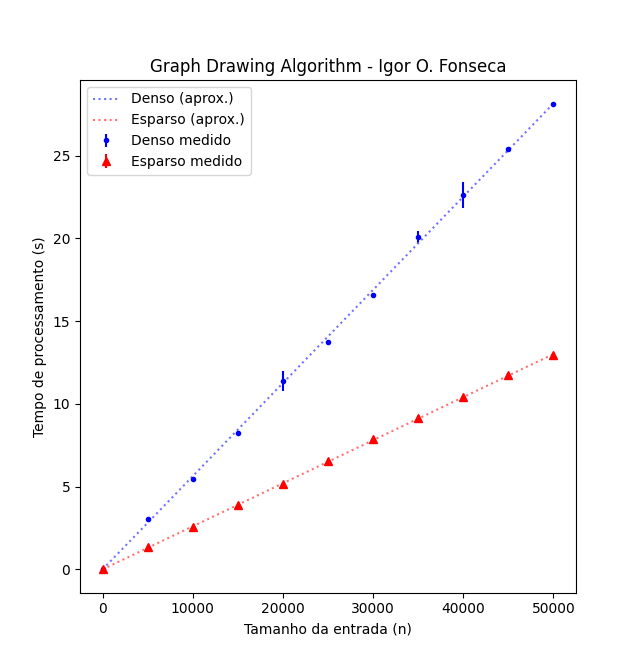
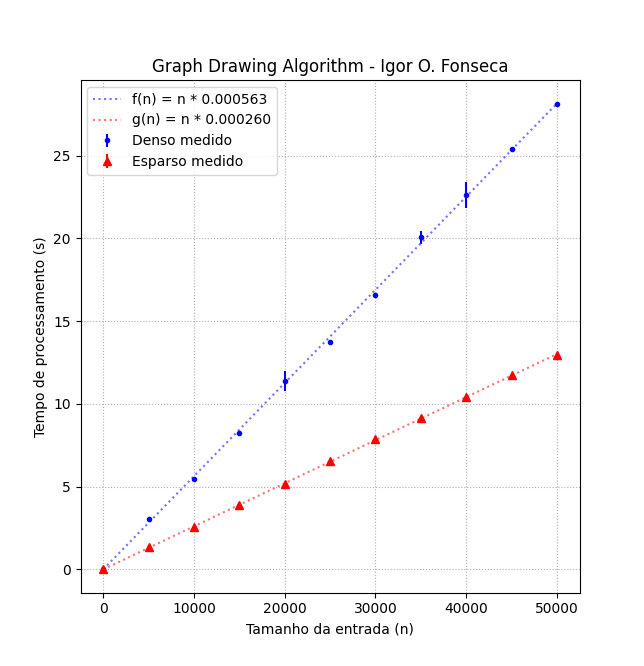
Atualizando legenda do grafico

diff --git a/plot_graph.py b/plot_graph.py
@@ -33,8 +33,8 @@ mean_dense = dense_matrix.mean(0)
 std_dense = dense_matrix.std(0)
 
 # Print array
-'''np.set_printoptions(formatter={'float': lambda x: "{0:0.2f}".format(x)})
-print(n_sizes)'''
+#np.set_printoptions(formatter={'float': lambda x: "{0:0.5f}".format(x)})
+#print(n_sizes)
 
 # Plot dense
 plt.errorbar(n_sizes, mean_dense, std_dense, color="blue", label='Denso medido', linestyle='', fmt=".")
@@ -44,7 +44,8 @@ range_multiplier = 1
 parametros, pcov = opt.curve_fit(funcao_linear, xdata=n_sizes, ydata=mean_dense)
 tamanhos_aproximados = range(n_sizes[-1] * range_multiplier)
 aproximados = [funcao_linear(x, *parametros) for x in tamanhos_aproximados]
-plt.plot(tamanhos_aproximados, aproximados, label="Denso (aprox.)", color="#7373ff", linestyle="dotted")
+label_dense = "f(n) = n * {:f}".format(parametros[0])
+plt.plot(tamanhos_aproximados, aproximados, label=label_dense, color="#7373ff", linestyle="dotted")
 
 # Plot sparse
 plt.errorbar(n_sizes, mean_sparse,std_sparse, color="red", label='Esparso medido', linestyle='', fmt="^")
@@ -53,12 +54,13 @@ plt.errorbar(n_sizes, mean_sparse,std_sparse, color="red", label='Esparso medido
 parametros, pcov = opt.curve_fit(funcao_linear, xdata=n_sizes, ydata=mean_sparse)
 tamanhos_aproximados = range(n_sizes[-1] * range_multiplier)
 aproximados = [funcao_linear(x, *parametros) for x in tamanhos_aproximados]
-plt.plot(tamanhos_aproximados, aproximados, label="Esparso (aprox.)", color="#ff7373", linestyle="dotted")
+label_sparse = "g(n) = n * {:f}".format(parametros[0])
+plt.plot(tamanhos_aproximados, aproximados, label=label_sparse, color="#ff7373", linestyle="dotted")
 
 # Plot final config
 plt.xlabel('Tamanho da entrada (n)')
 plt.ylabel('Tempo de processamento (s)')
 plt.title('Graph Drawing Algorithm - Igor O. Fonseca')
-#plt.grid(linestyle = '--')
+plt.grid(linestyle = 'dotted')
 plt.legend()
 plt.show()
